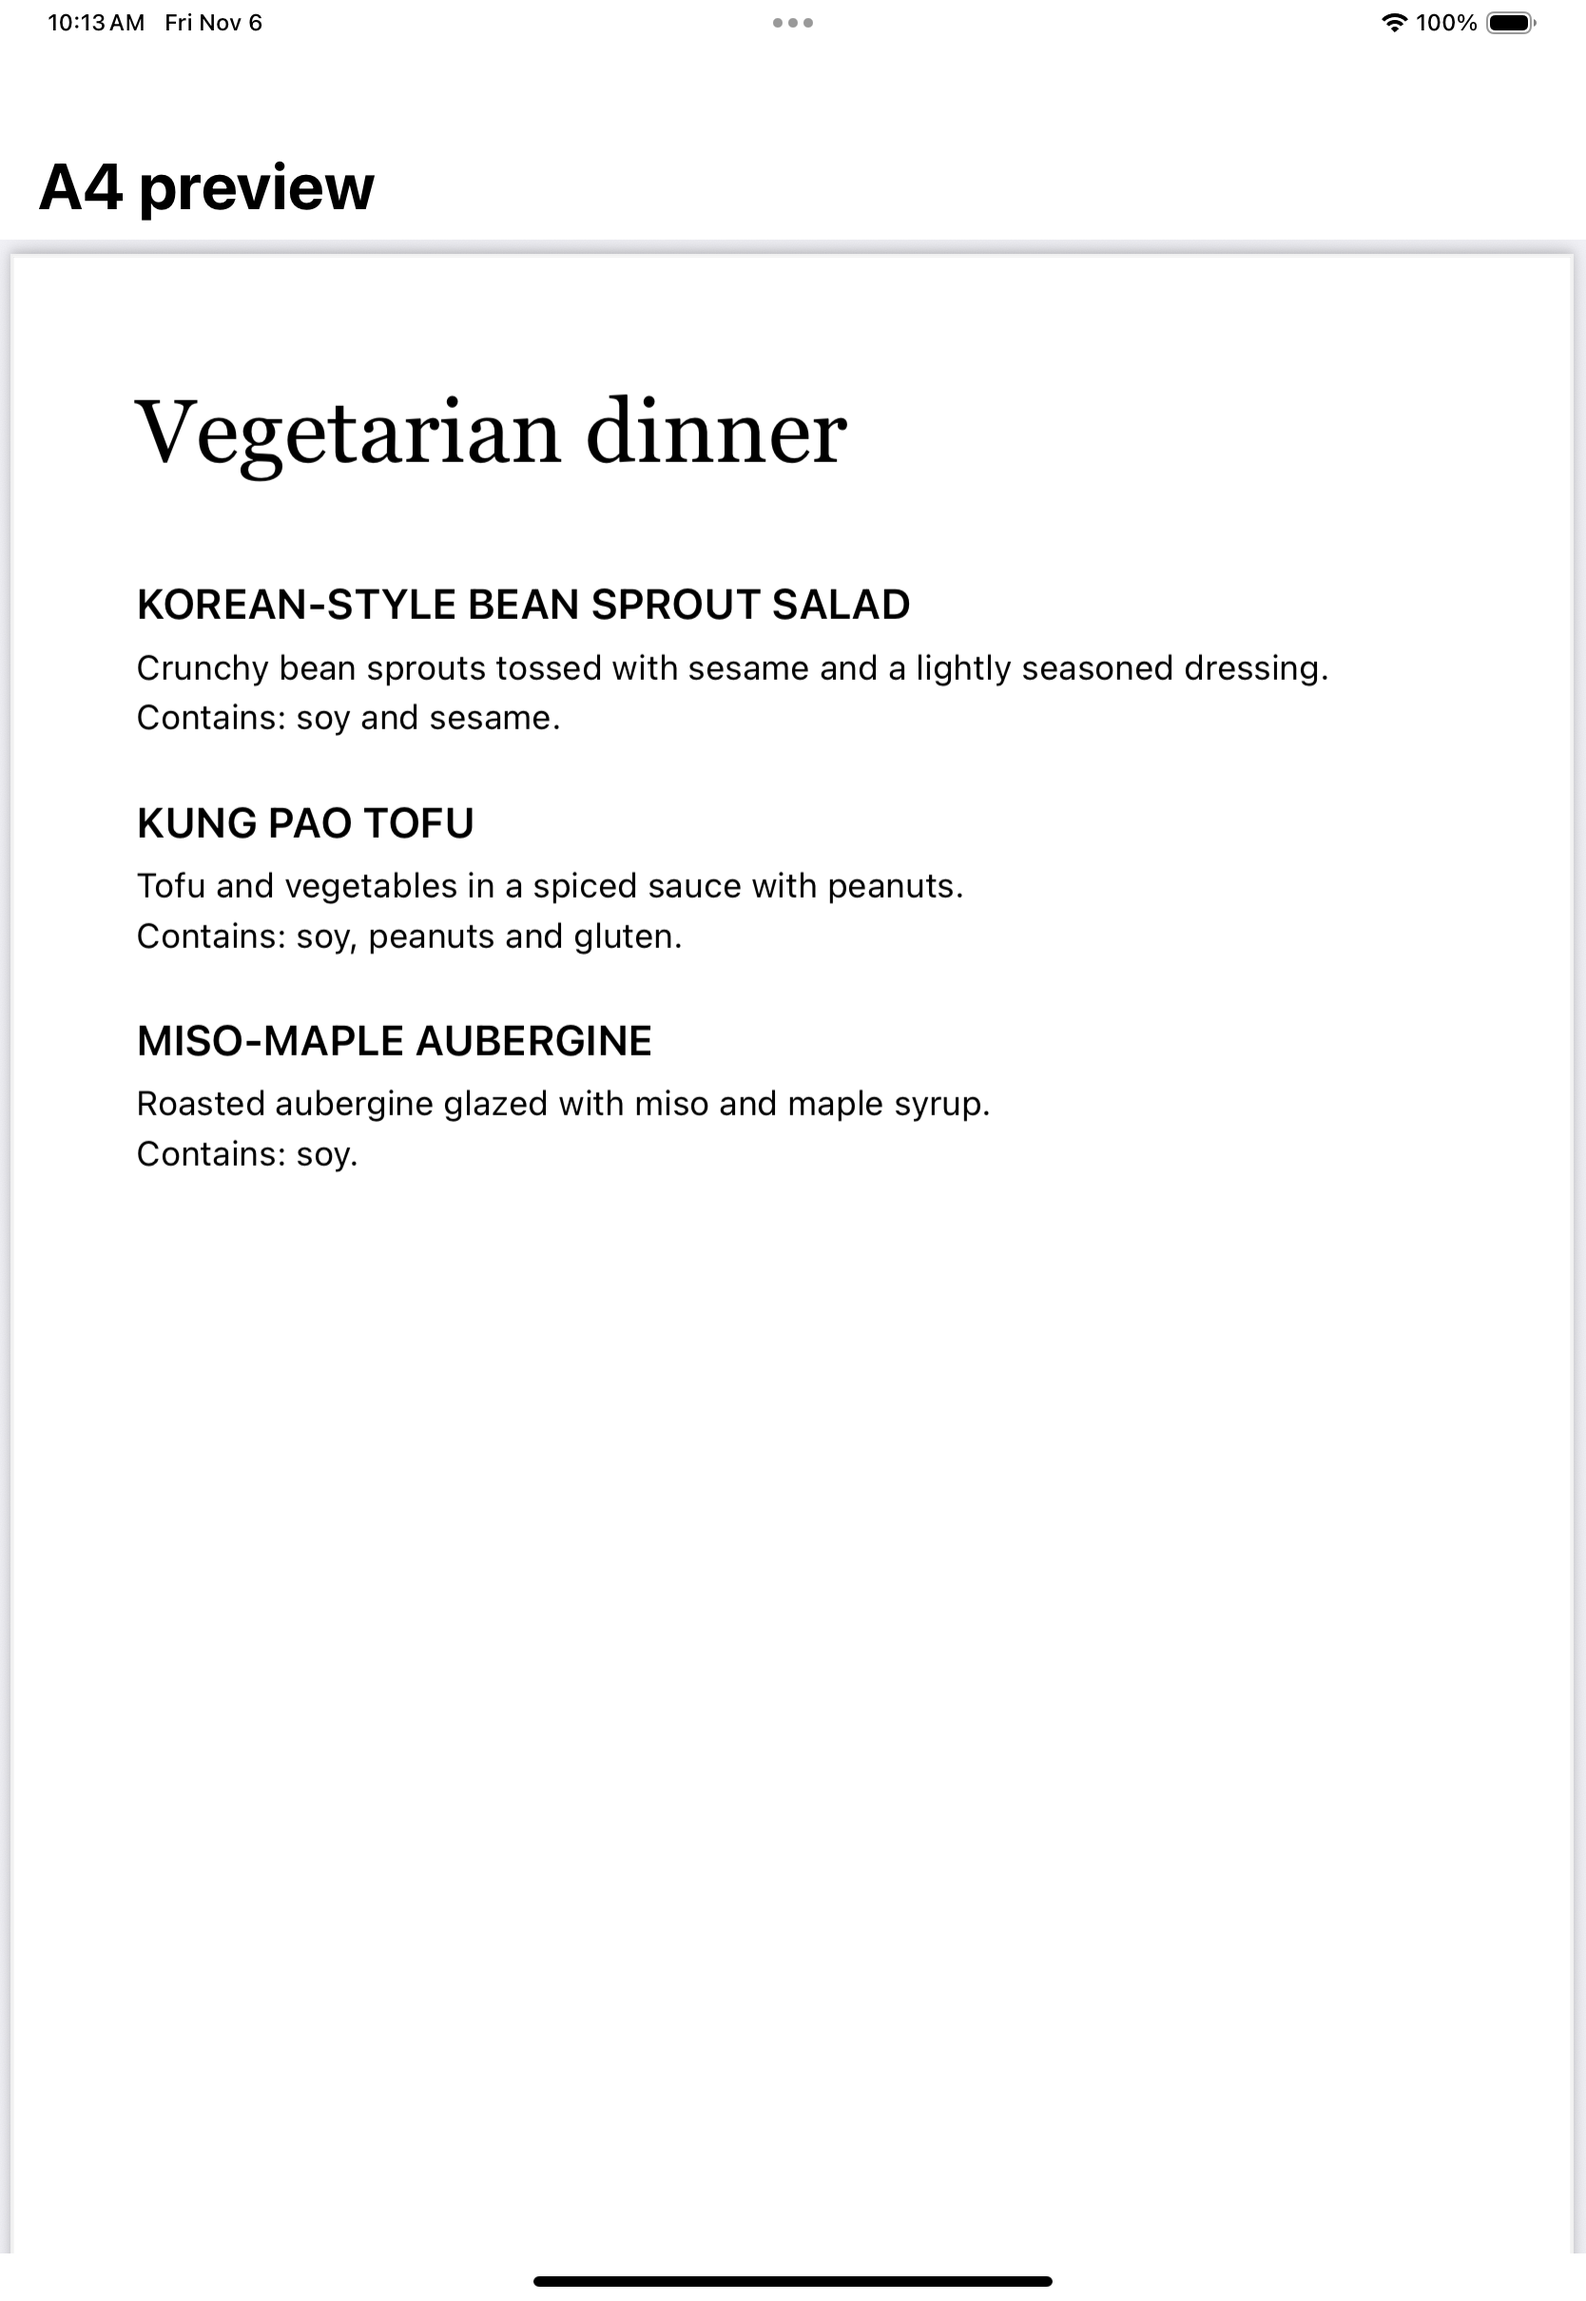
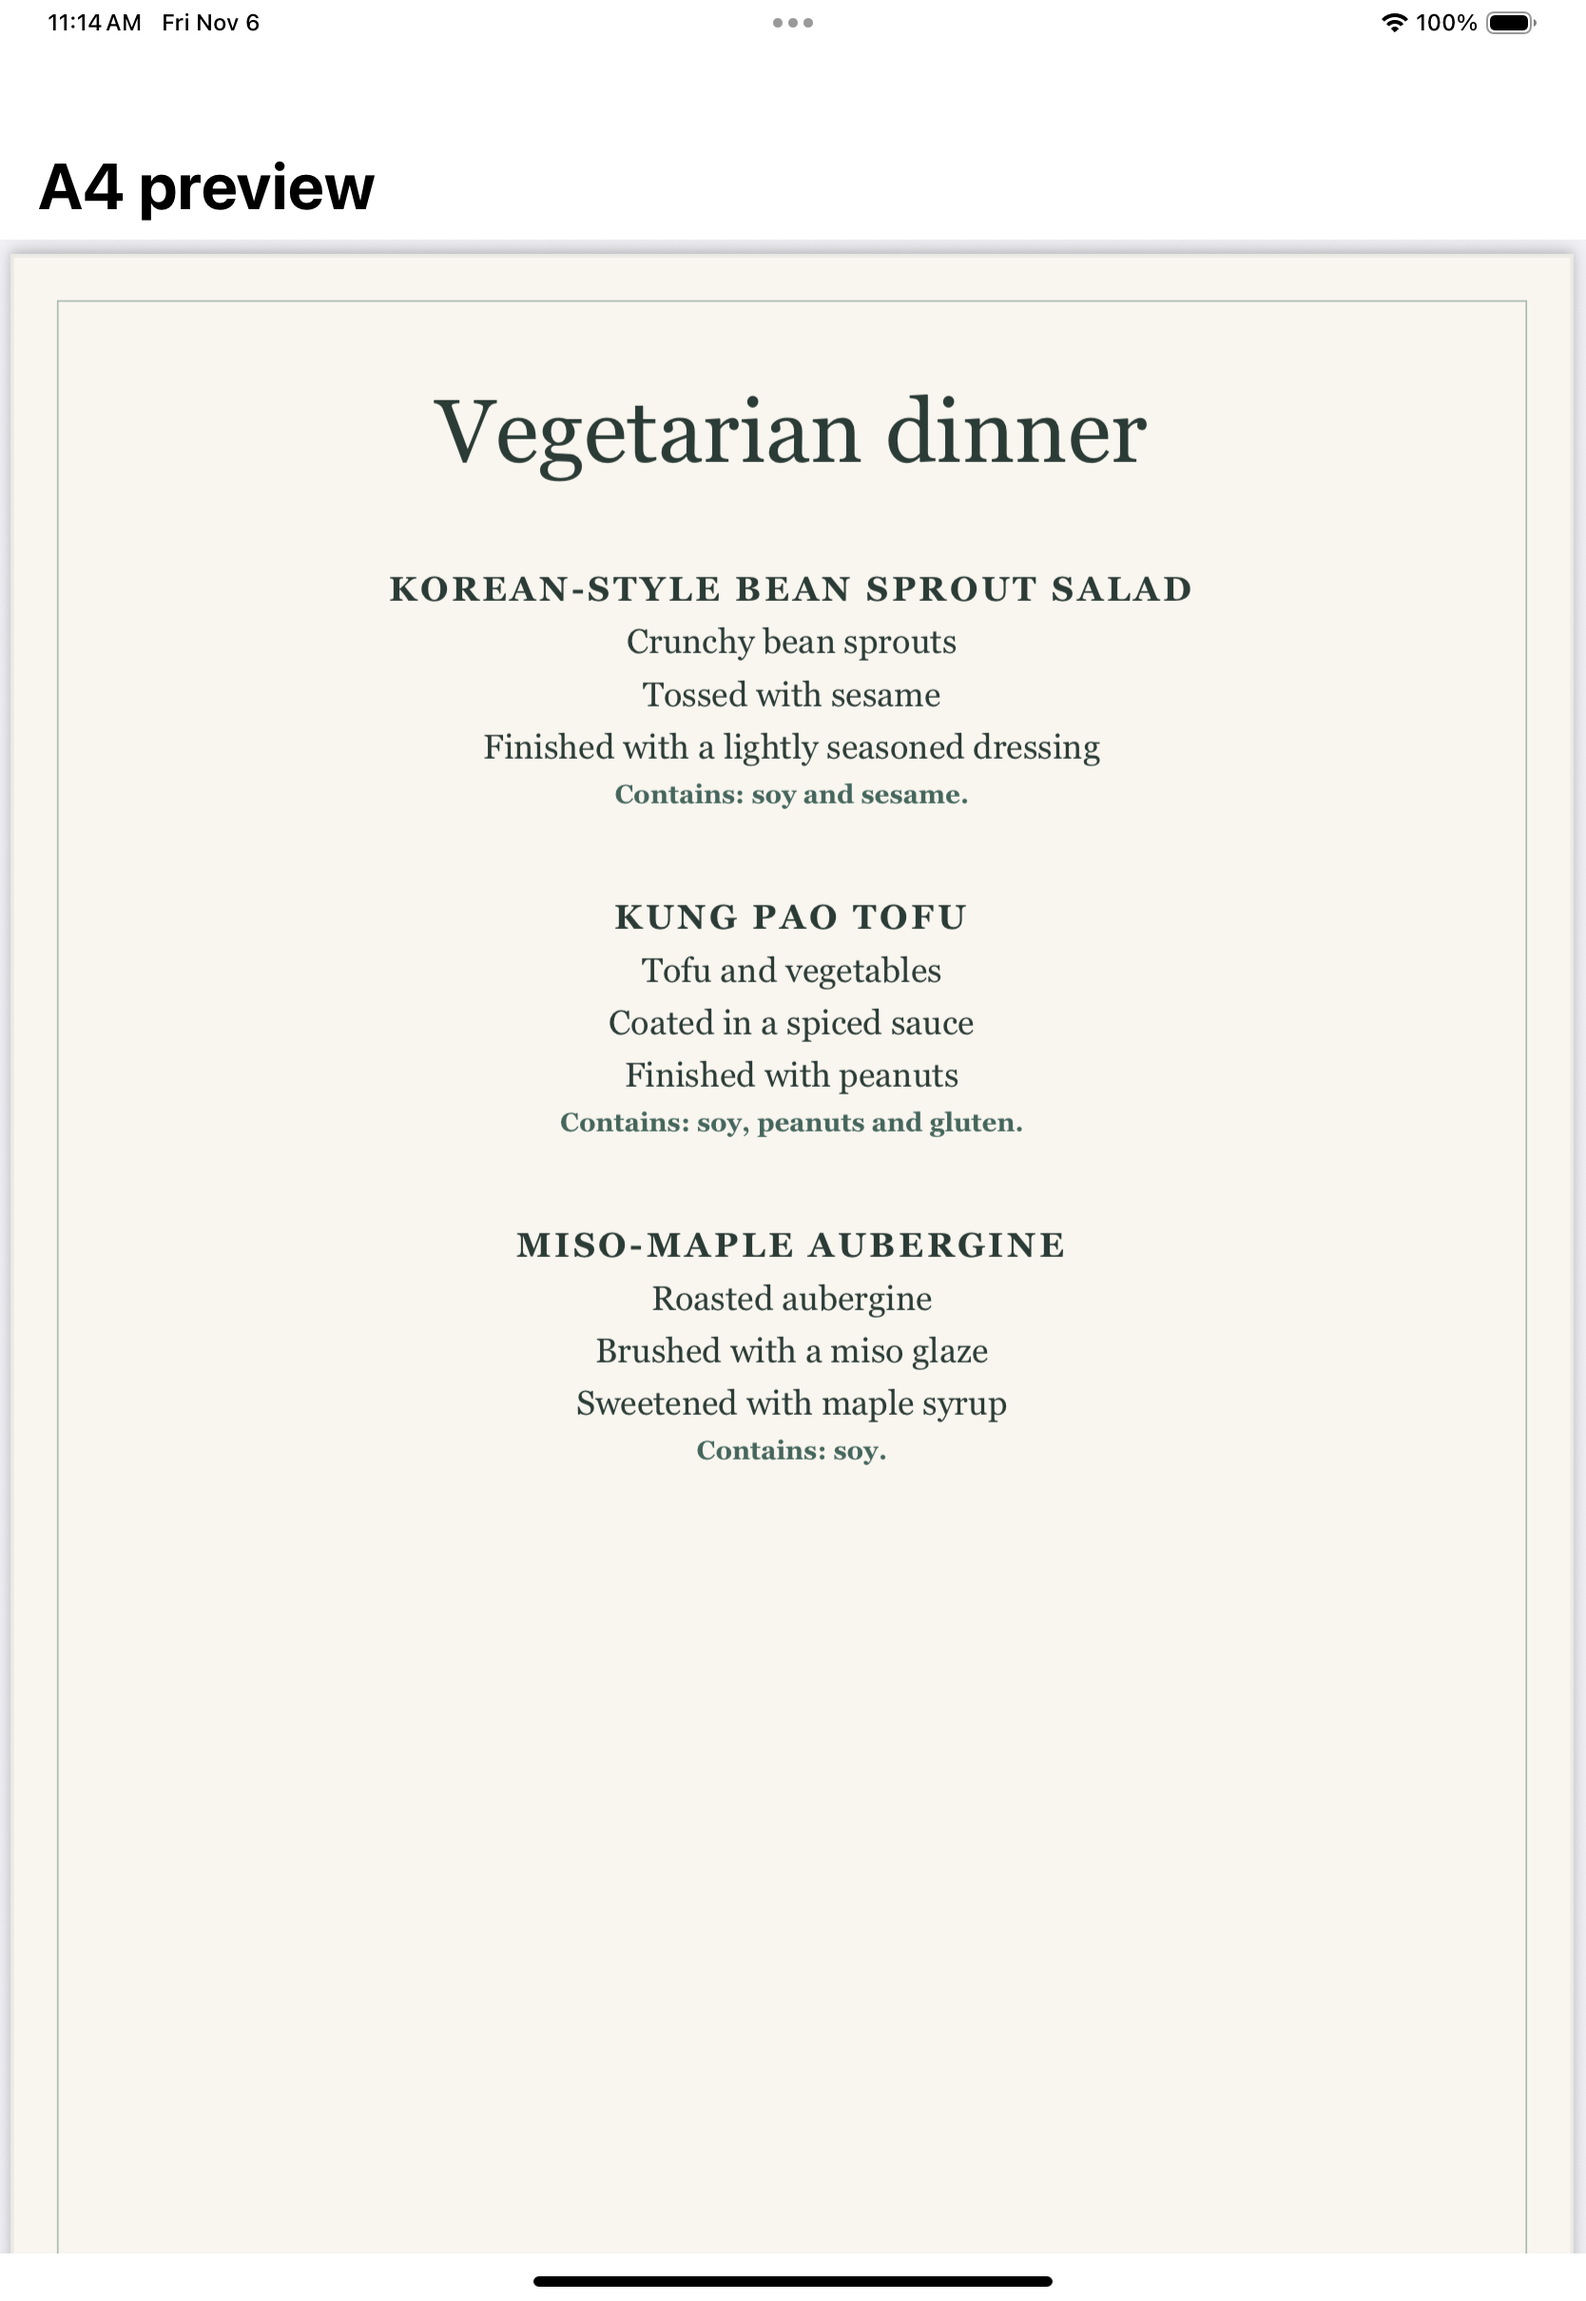
Publish verified previews from the updated Classic PDF export

diff --git a/apps/menu-creator-studio/samples.css b/apps/menu-creator-studio/samples.css
@@ -18,3 +18,5 @@
 .capture-grid figcaption {font-size:.85rem;margin-top:.6rem}
 .style-guide{margin:3rem 0}.styles{display:grid;grid-template-columns:repeat(auto-fit,minmax(min(100%,13rem),1fr));gap:1rem}.styles figure{margin:0}.styles figcaption{font-weight:600;margin-bottom:.5rem}.style-paper{background:white;color:black;padding:1.5rem;border:1px solid #d8dbd4;font:normal .85rem/1.45 Arial,sans-serif}.style-paper b{font:normal 2rem Georgia,serif;display:block;margin-bottom:1.2rem}.style-paper strong{display:block;margin-bottom:.35rem}.type-modern b{font:bold 2rem Arial,sans-serif}.type-garden b,.type-garden strong{color:#215738}
 .menu-intro{display:grid;grid-template-columns:minmax(0,.78fr) minmax(0,1.45fr);gap:clamp(1.5rem,4vw,4rem);align-items:center;margin:2rem 0 3rem}.menu-intro h1{font:normal clamp(3.15rem,6.3vw,5.5rem)/.97 Georgia,serif;letter-spacing:-.045em;color:#30233c}.reference-sheet{margin:0;position:relative;background:#f8f5ef;border-top:.45rem solid #c8d6cb;padding:3rem .85rem 3.25rem;box-shadow:0 .7rem 2rem #3b392118}.reference-sheet:before{content:"";position:absolute;inset:.65rem;border:1px solid #b9c8bd;pointer-events:none}.reference-sheet figcaption{text-align:center;font:normal clamp(1.95rem,4vw,3.5rem)/1.1 Georgia,serif;letter-spacing:-.035em;color:#362044}.folio{text-align:center;text-transform:uppercase;font:normal .8rem Georgia,serif;letter-spacing:.32em;margin:.85rem 0 1.6rem;color:#3d5b51}.reference-sheet img,.reference-pair img{display:block;width:100%;height:auto}.reference-pair{border-block:1px solid #cbd6cb;padding:2.25rem 0;display:grid;grid-template-columns:1fr 1.5fr;gap:2rem;align-items:center}.reference-pair h2{margin-top:0}.reference-pair>a{border:1px solid #c6d0c5;background:#f8f5ef;padding:.5rem}@media(max-width:700px){.menu-intro,.reference-pair{grid-template-columns:1fr;gap:1rem}.menu-intro h1{max-width:12ch}.reference-sheet{padding-block:2.3rem}}
+
+.styles figure:first-child .style-paper {background:#f9f6f0;text-align:center;color:#2b3b35;font-family:Georgia,serif;outline:1px solid #b5c1b8;outline-offset:-5px}.styles figure:first-child .style-paper strong{letter-spacing:.1em}
